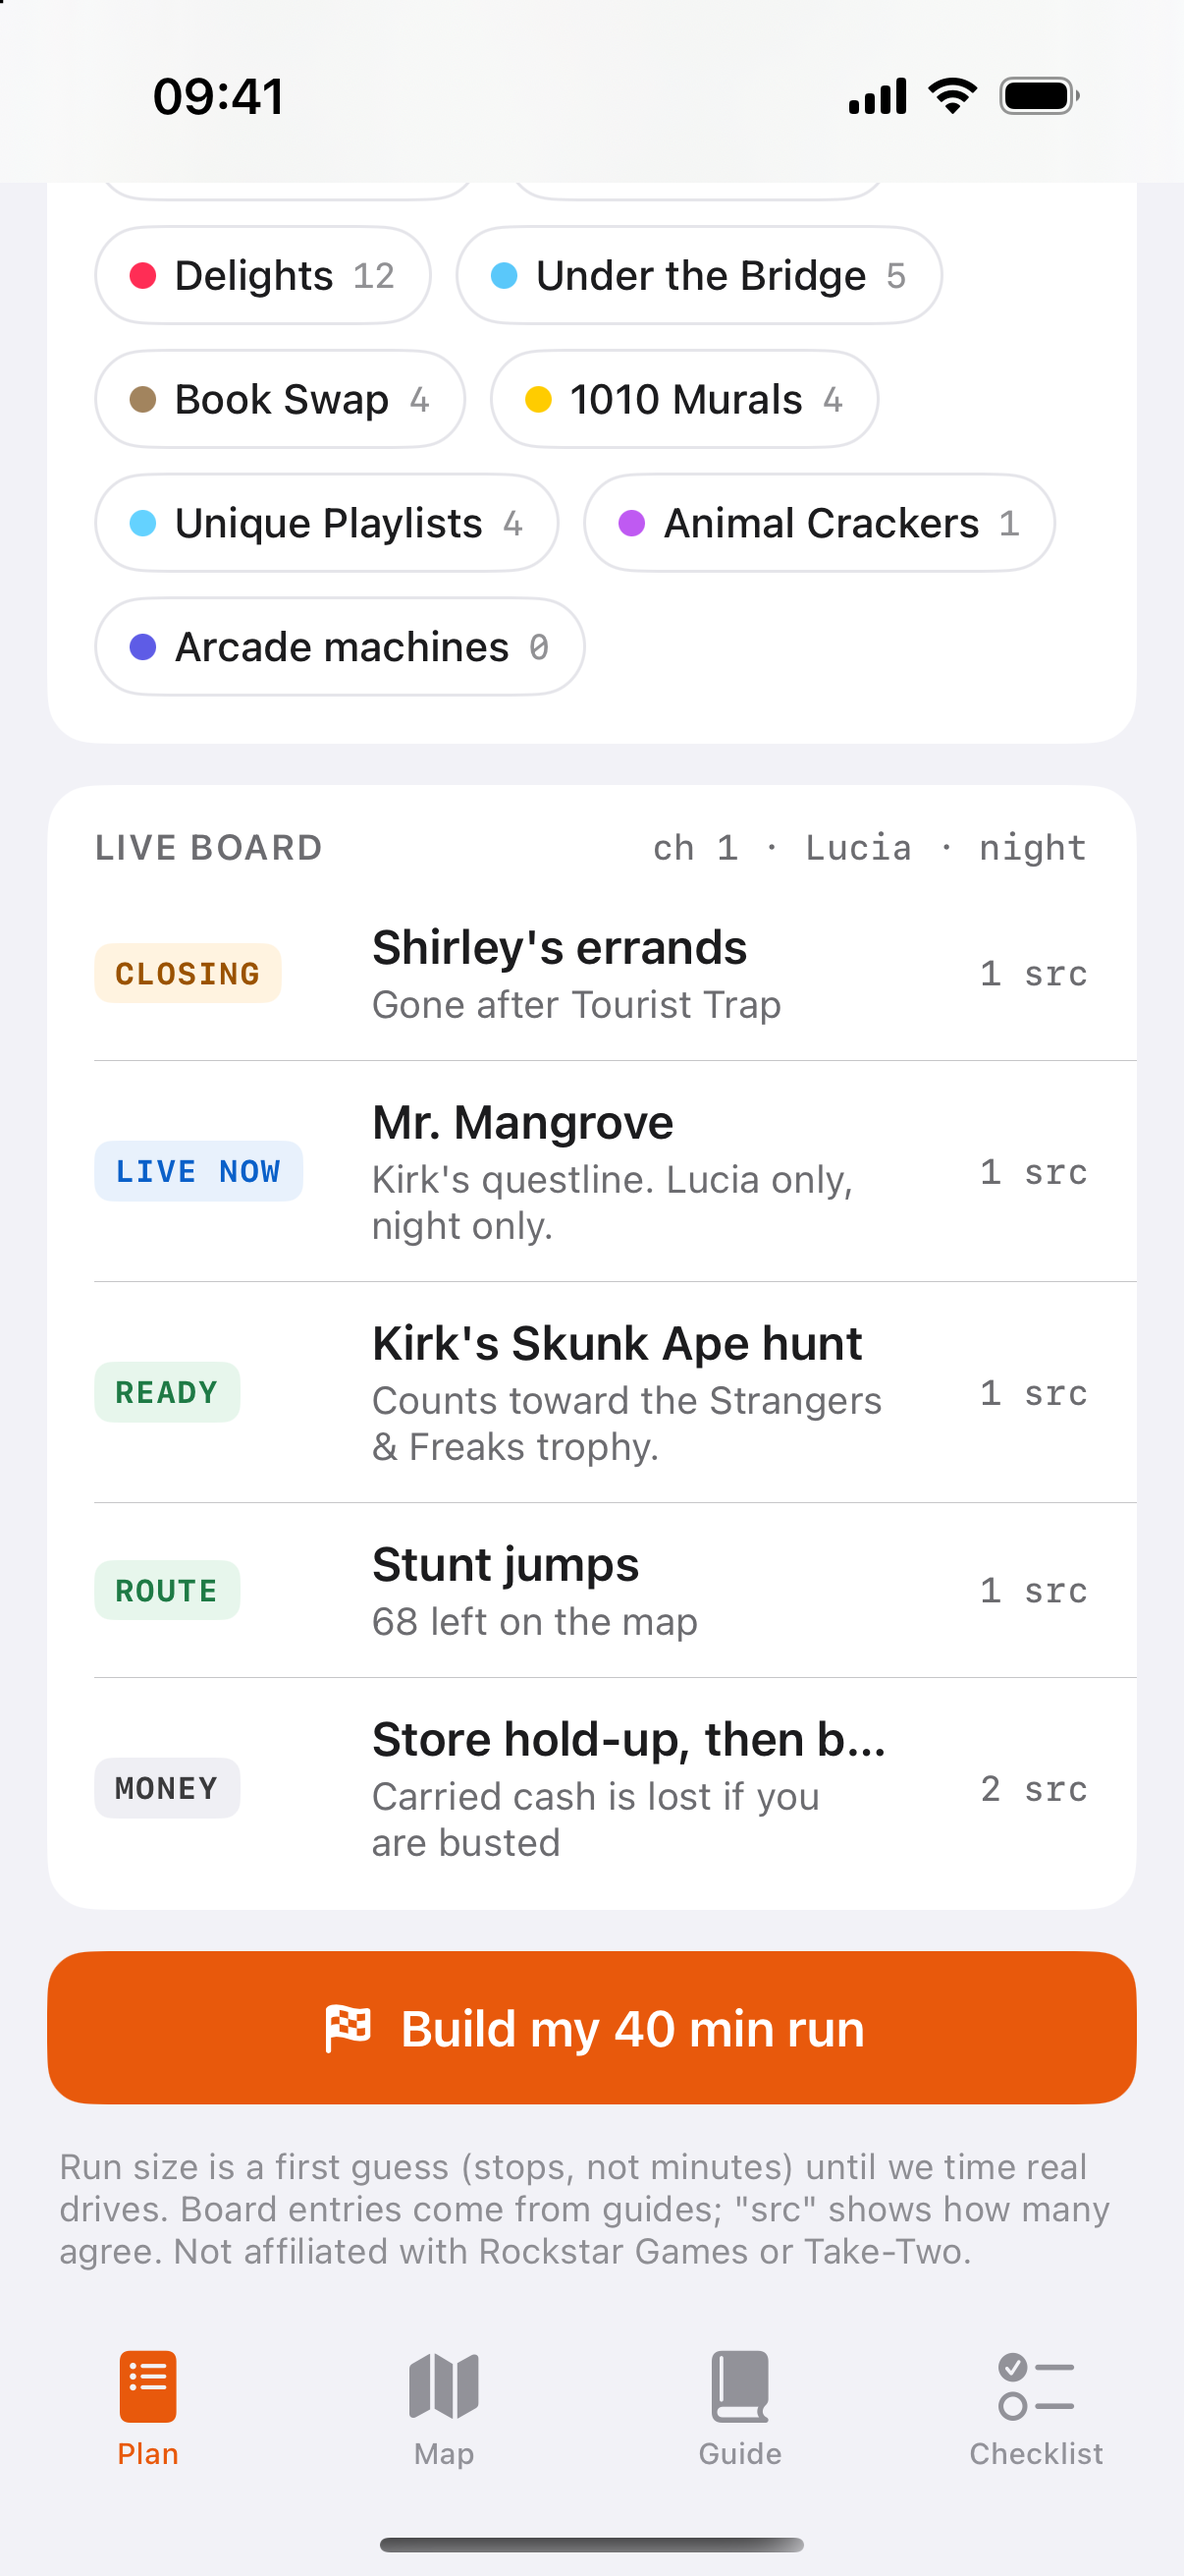
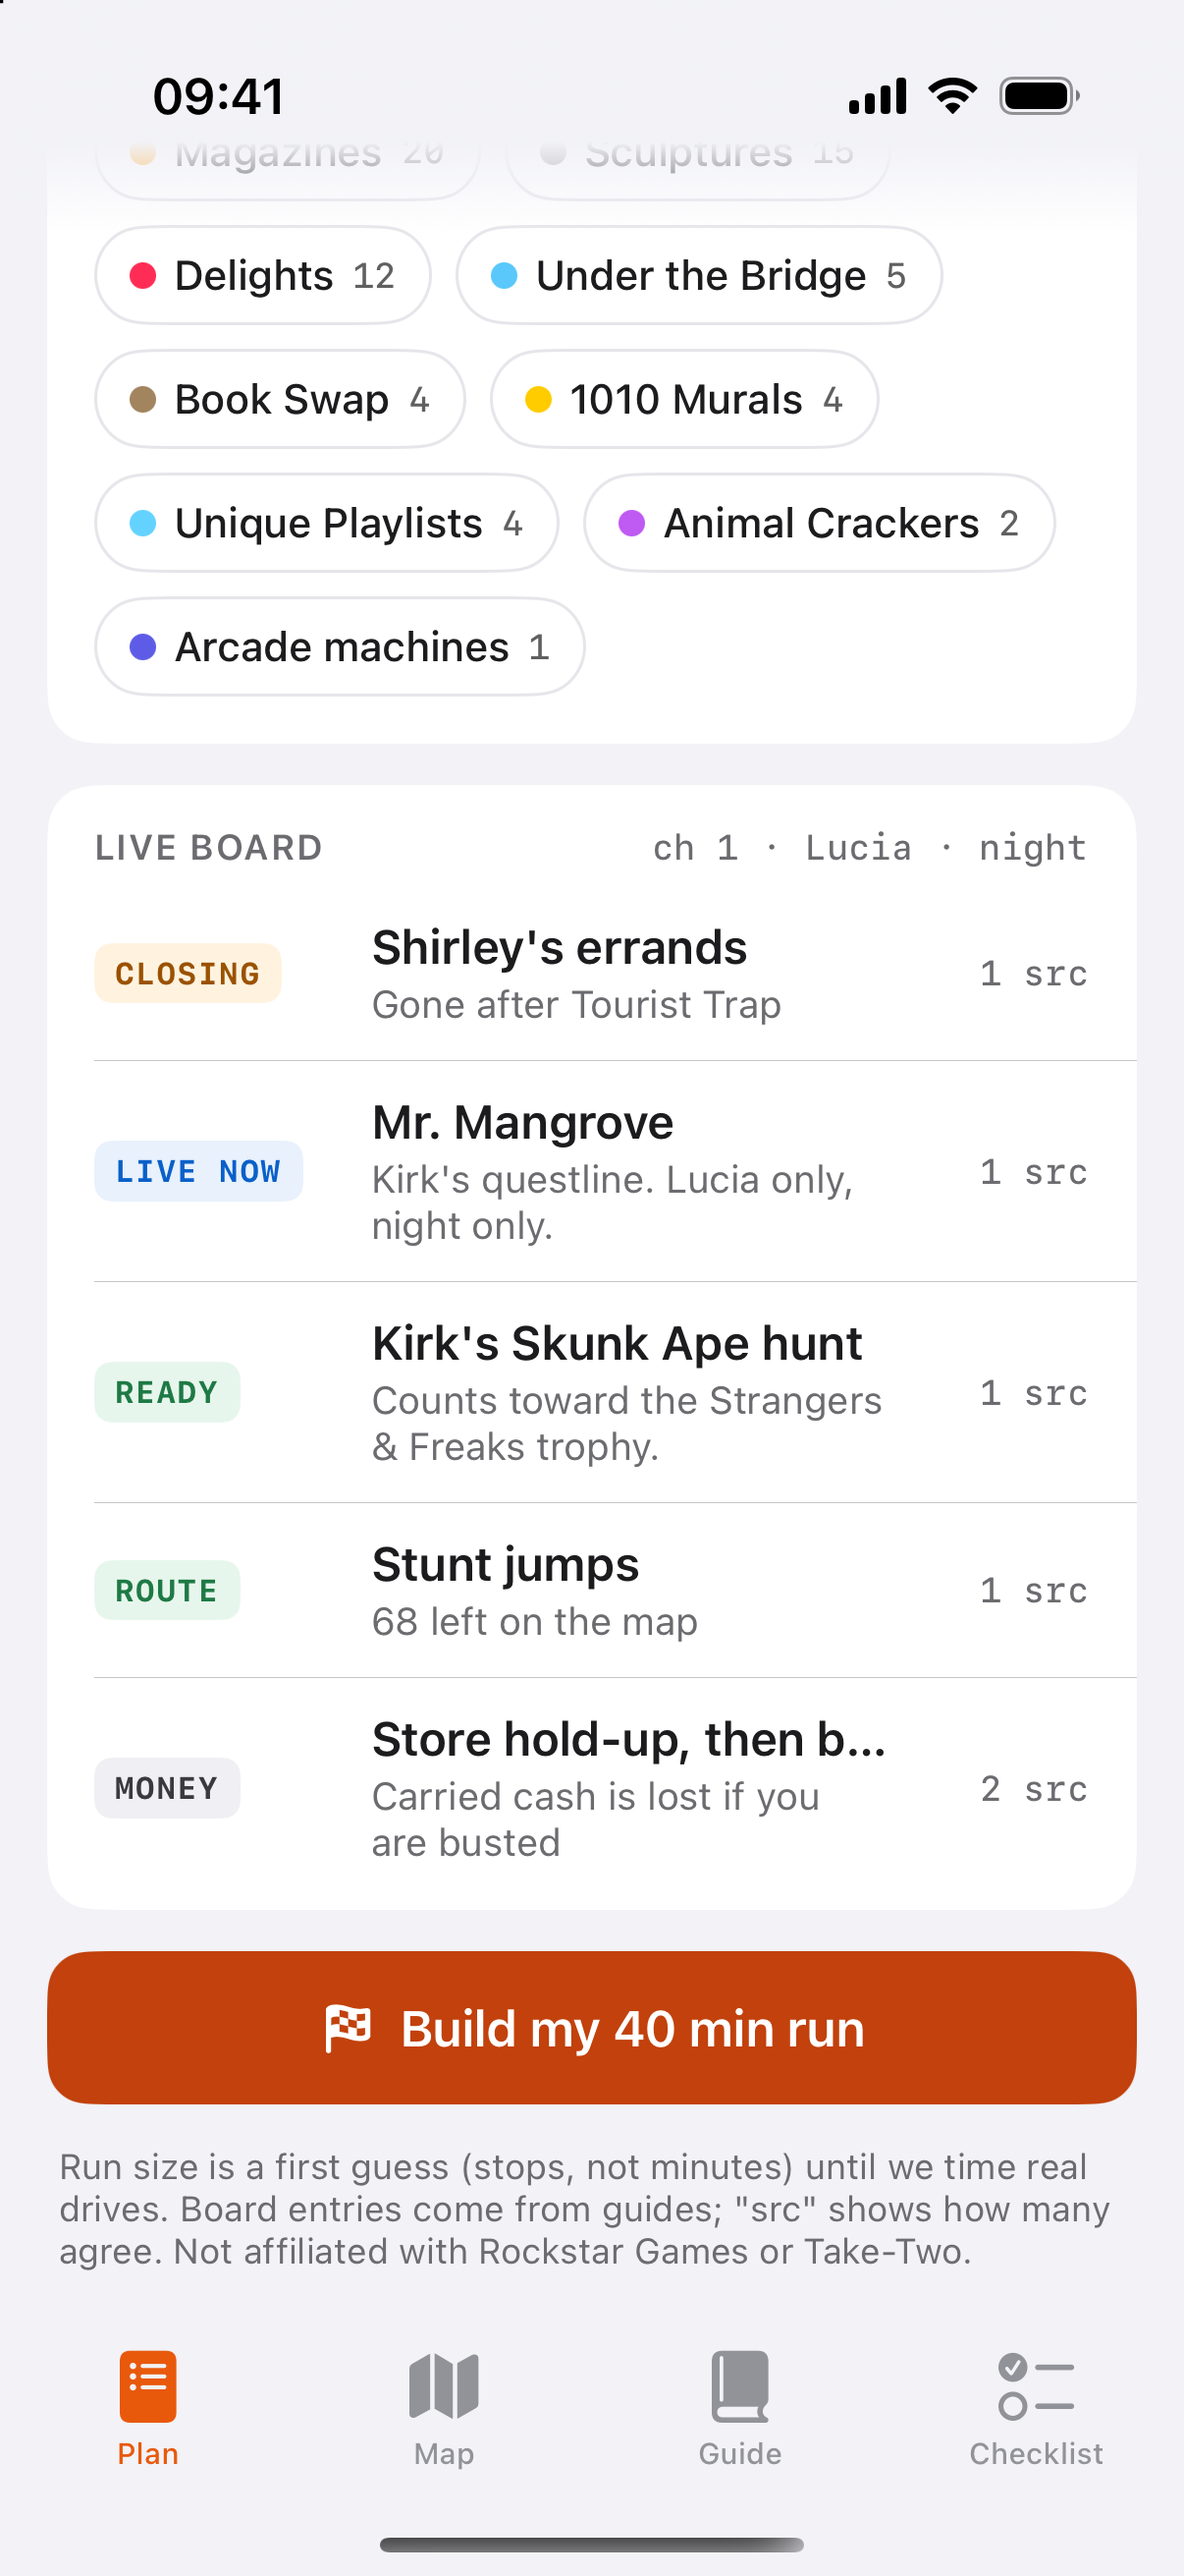
Top of Plan, Guide and Checklist reads as one surface: page colour under the status bar, soft scroll edge on iOS 26, short fade before

Changed region(s): [[0.0307, 0.7414, 0.9818, 0.8959]]

diff --git a/Runsheet/Design/Components.swift b/Runsheet/Design/Components.swift
@@ -28,9 +28,26 @@ extension View {
             .background(RS.card, in: RoundedRectangle(cornerRadius: 16, style: .continuous))
     }
 
-    /// A bar behind the status bar so scrolled content doesn't run under the clock.
+    /// The page colour runs under the status bar as one surface. Scrolled content fades out under the clock:
+    /// the native soft edge on iOS 26, a short page-colour gradient before that.
+    @ViewBuilder
     func rsStatusBarScrim() -> some View {
-        self.safeAreaInset(edge: .top, spacing: 0) { Color.clear.frame(height: 0).background(.bar) }
+        if #available(iOS 26, *) {
+            self.background(RS.bg.ignoresSafeArea())
+                .scrollEdgeEffectStyle(.soft, for: .top)
+        } else {
+            self.background(RS.bg.ignoresSafeArea())
+                .overlay(alignment: .top) {
+                    GeometryReader { g in
+                        LinearGradient(stops: [.init(color: RS.bg, location: 0), .init(color: RS.bg, location: 0.6),
+                                               .init(color: RS.bg.opacity(0), location: 1)],
+                                       startPoint: .top, endPoint: .bottom)
+                            .frame(height: g.safeAreaInsets.top + 18)
+                            .offset(y: -g.safeAreaInsets.top)
+                    }
+                    .allowsHitTesting(false)
+                }
+        }
     }
 
     /// Before iOS 26 the tab bar is clear over the map, so pins draw through it. Give it a bar there.
